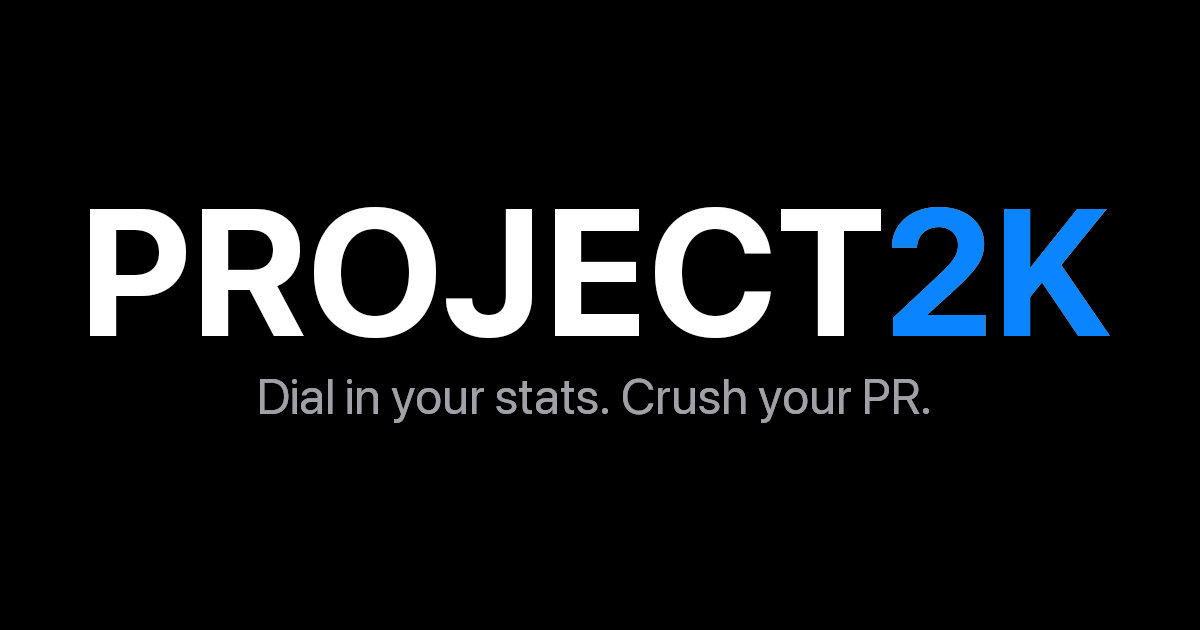
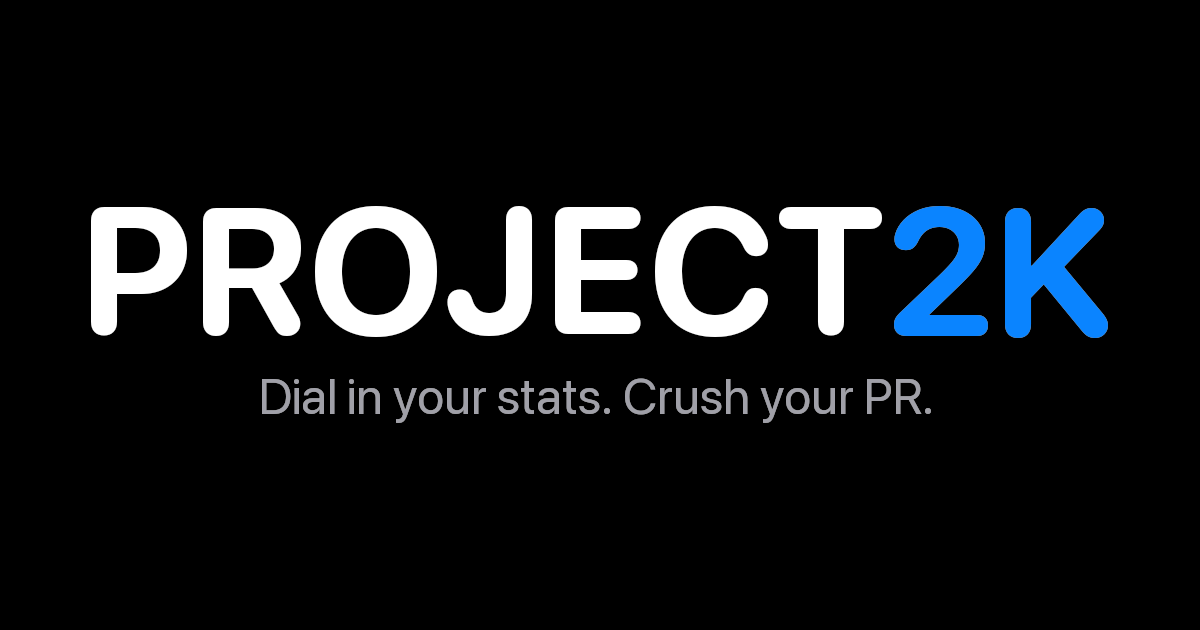
og-image: use SF Pro Rounded Bold to match website header rendering
Switch title font back to SFNSRounded.ttf. The CSS stack's explicit
'SF Pro Rounded' fallback is what the browser actually renders, not
-apple-system's SF Pro.

diff --git a/scripts/gen_og_image.py b/scripts/gen_og_image.py
@@ -11,10 +11,9 @@ GREY = (160, 160, 168, 255)
 TITLE = "PROJECT2K"
 TAGLINE = "Dial in your stats. Crush your PR."
 
-# -apple-system on Apple devices resolves to SF Pro (NOT SF Pro Rounded),
-# so the website's .hero-title / .login-title renders in SF Pro Bold.
-# Match that here with SFNS.ttf (Bold variation).
-FONT_TITLE = "/System/Library/Fonts/SFNS.ttf"
+# Match the website title font: SF Pro Rounded Bold (the CSS stack's
+# 'SF Pro Rounded' fallback is what the browser actually renders).
+FONT_TITLE = "/System/Library/Fonts/SFNSRounded.ttf"
 FONT_UI = "/System/Library/Fonts/SFNS.ttf"
 
 title_font = ImageFont.truetype(FONT_TITLE, 180)
